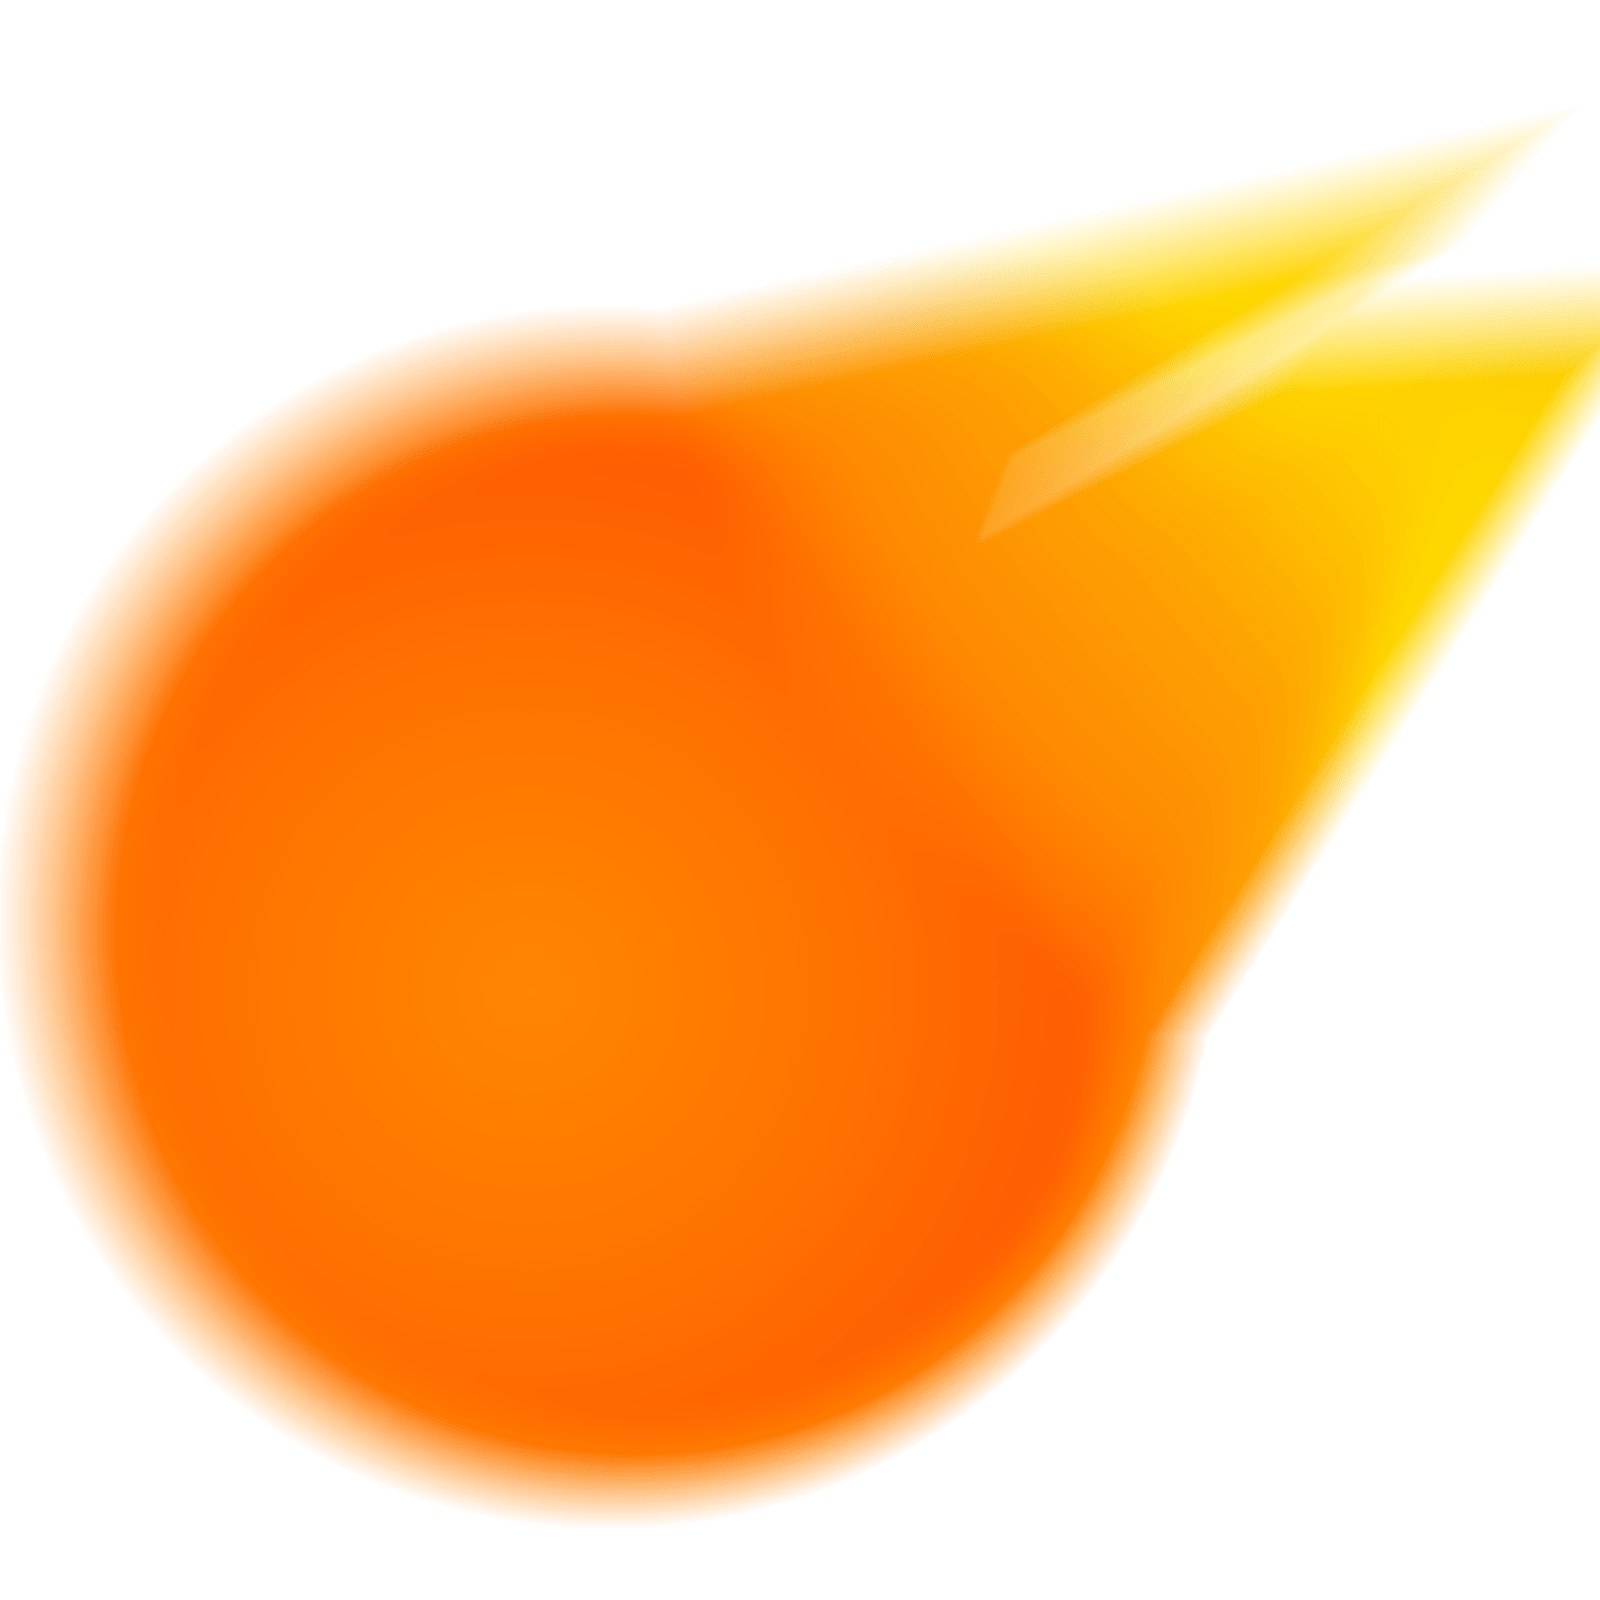
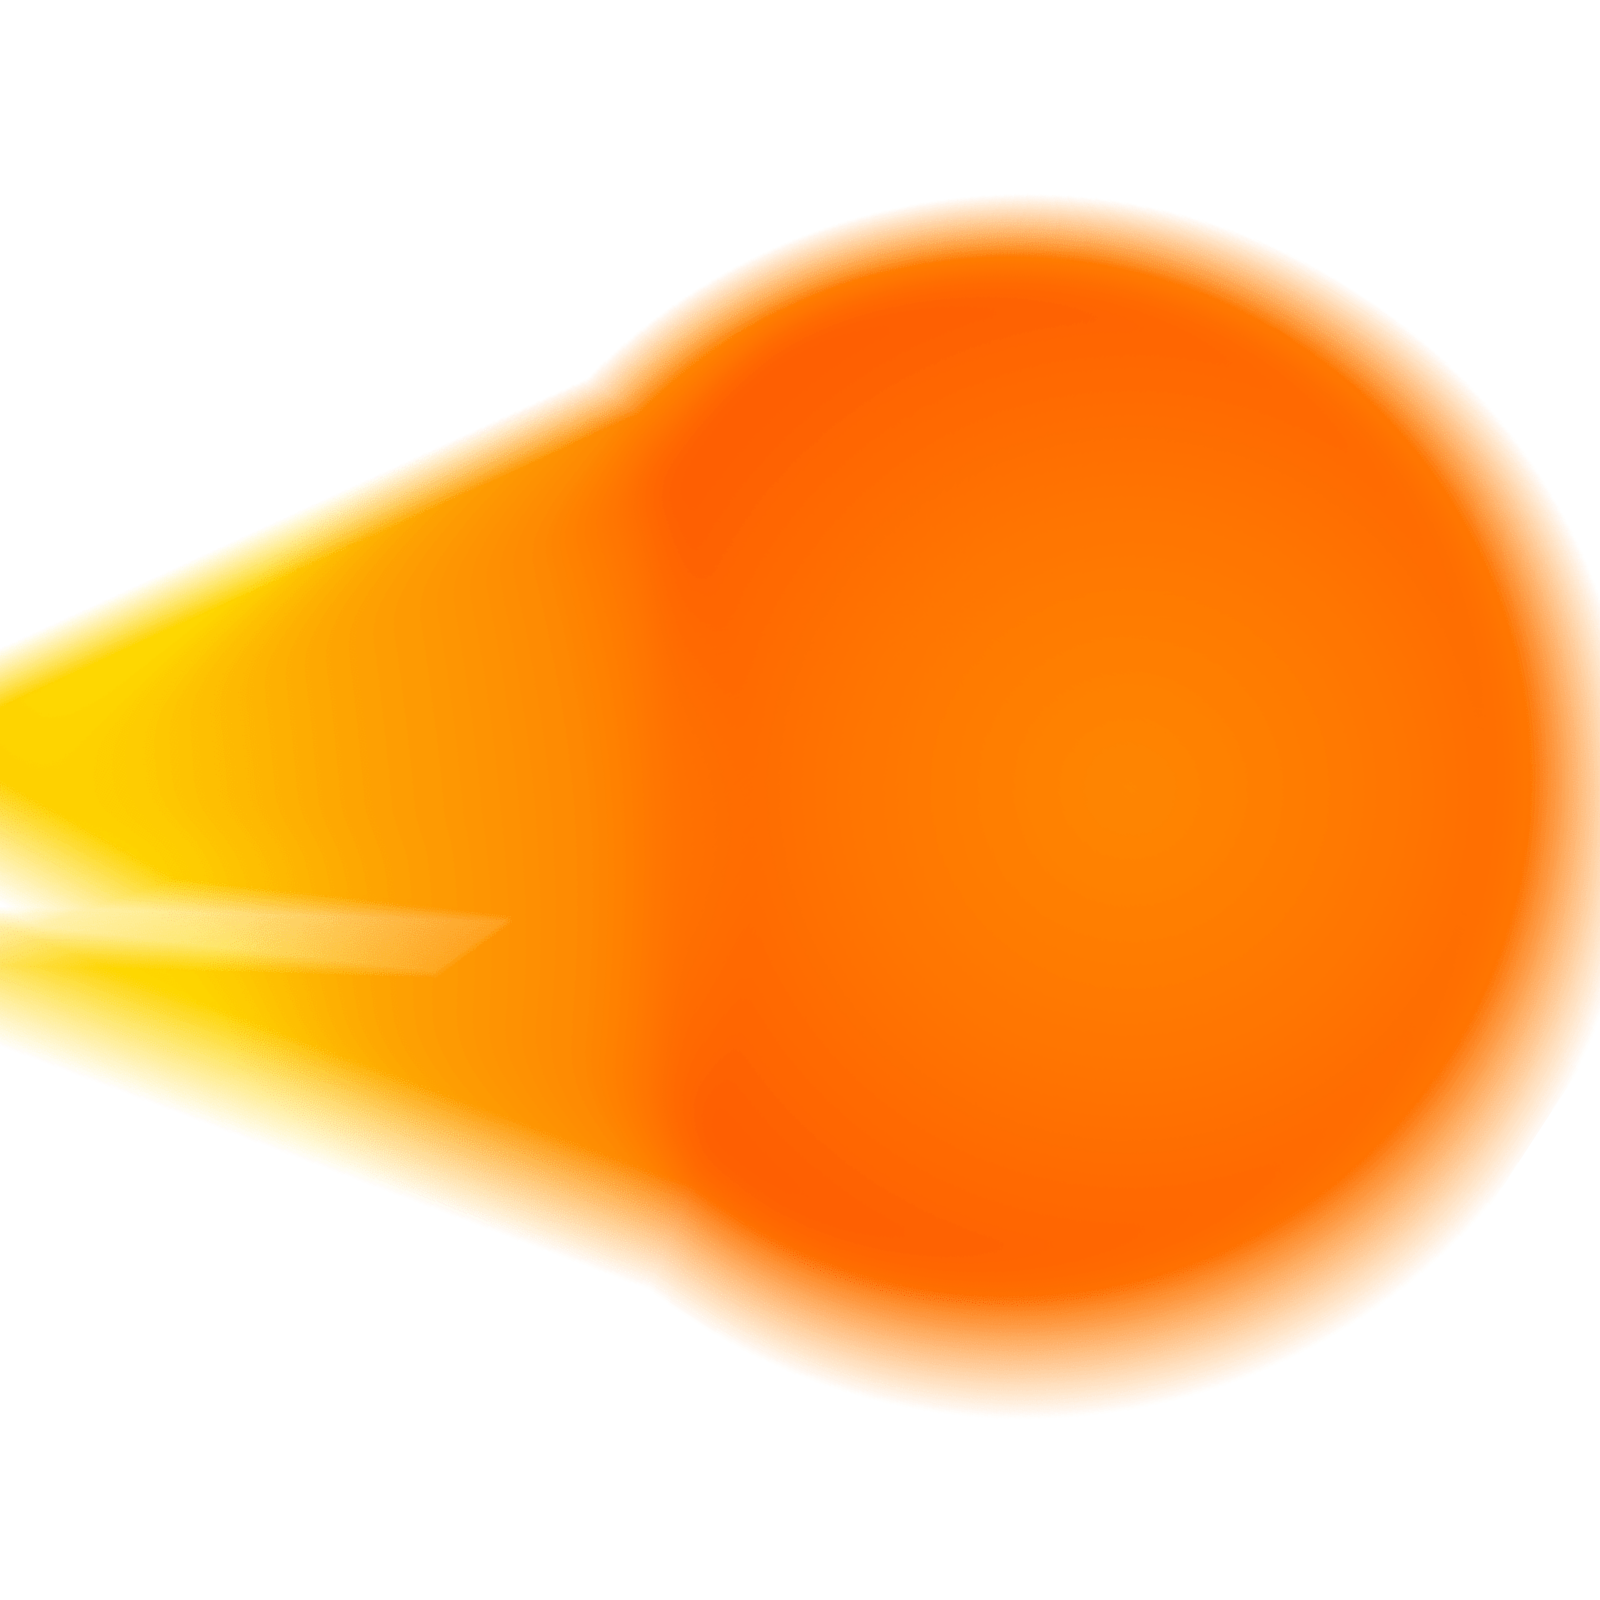
made the difficulty selection interface, and the buttons now can be selected. changing the difficulty now actually changes the way entities spawn

diff --git a/owldodgegame/src/entity.c b/owldodgegame/src/entity.c
@@ -13,7 +13,7 @@ void moveplayer(Player *player)
     renderrectangle(player->texture, (Rect){gettopleftpoint(player->position, player->imgsize), player->imgsize});
 }
 
-EntityNode *moveentities(EntityNode *entities)
+EntityNode *moveentities(EntityNode *entities, bool rotatedimage)
 {
     EntityNode *preventity = NULL;
     EntityNode *current = entities;
@@ -39,8 +39,7 @@ EntityNode *moveentities(EntityNode *entities)
         }
         else
         {
-            int speed = f->speed;
-            Vector2 v = {.x = f->direction.x * speed, .y = f->direction.y * speed};
+            Vector2 v = {.x = f->direction.x * f->speed, .y = f->direction.y * f->speed};
             f->position = addvectortopoint(f->position, v);
             renderrectangle(f->texture, (Rect){gettopleftpoint(f->position, f->imgsize), f->imgsize});
             preventity = current;

diff --git a/owldodgegame/src/game.c b/owldodgegame/src/game.c
@@ -121,10 +121,12 @@ void game(SDL_Event *e)
         moveplayer(&player);
         player.missiles = movemissiles(&player);
 
-        fireballs = moveentities(fireballs);
+        bool rotatedimage = true;
+
+        fireballs = moveentities(fireballs, rotatedimage);
 
         entitychangedir(enemies, player.position);
-        enemies = moveentities(enemies);
+        enemies = moveentities(enemies, !rotatedimage);
 
         // ütközések
 
@@ -169,9 +171,8 @@ void game(SDL_Event *e)
     // megjelenítő frissítése
     renderupdate();
   }
-
-  SDL_Log("round over");
   // felszabadítások
+
   freeentities(fireballs);
   freeentities(enemies);
 

diff --git a/owldodgegame/src/menu.c b/owldodgegame/src/menu.c
@@ -116,6 +116,8 @@ void startmenu(SDL_Event *e)
       {{bcol(0), brow(3)}, "Kilepes", quit},
   };
   int offset = 2;
+  drawbuttons(buttons, GAMEOVERMENU_BTARRSIZE);
+  renderupdate();
   while (getmenustate() == STARTMENU && getmainstate() == MENU)
   {
     while (SDL_PollEvent(e))
@@ -185,6 +187,7 @@ void gameovermenu(SDL_Event *e)
       {{bcol(0), brow(3)}, "Vissza", back},
   };
   int diffbtoffset = 1;
+  drawbuttons(buttons, GAMEOVERMENU_BTARRSIZE);
   renderupdate();
   while (getmenustate() == GAMEOVERMENU && getmainstate() == MENU)
   {

diff --git a/owldodgegame/include/entity.h b/owldodgegame/include/entity.h
@@ -78,7 +78,7 @@ typedef struct SpawnProps
 
 void moveplayer(Player *player);
 
-EntityNode *moveentities(EntityNode *entities);
+EntityNode *moveentities(EntityNode *entities, bool rotatedimage);
 void entitychangedir(EntityNode *entities, Point playerpos);
 EntityNode *spawnentity(EntityNode *list, SDL_Texture *t, Point playerpos, double speed);
 void freeentities(EntityNode *entities);
